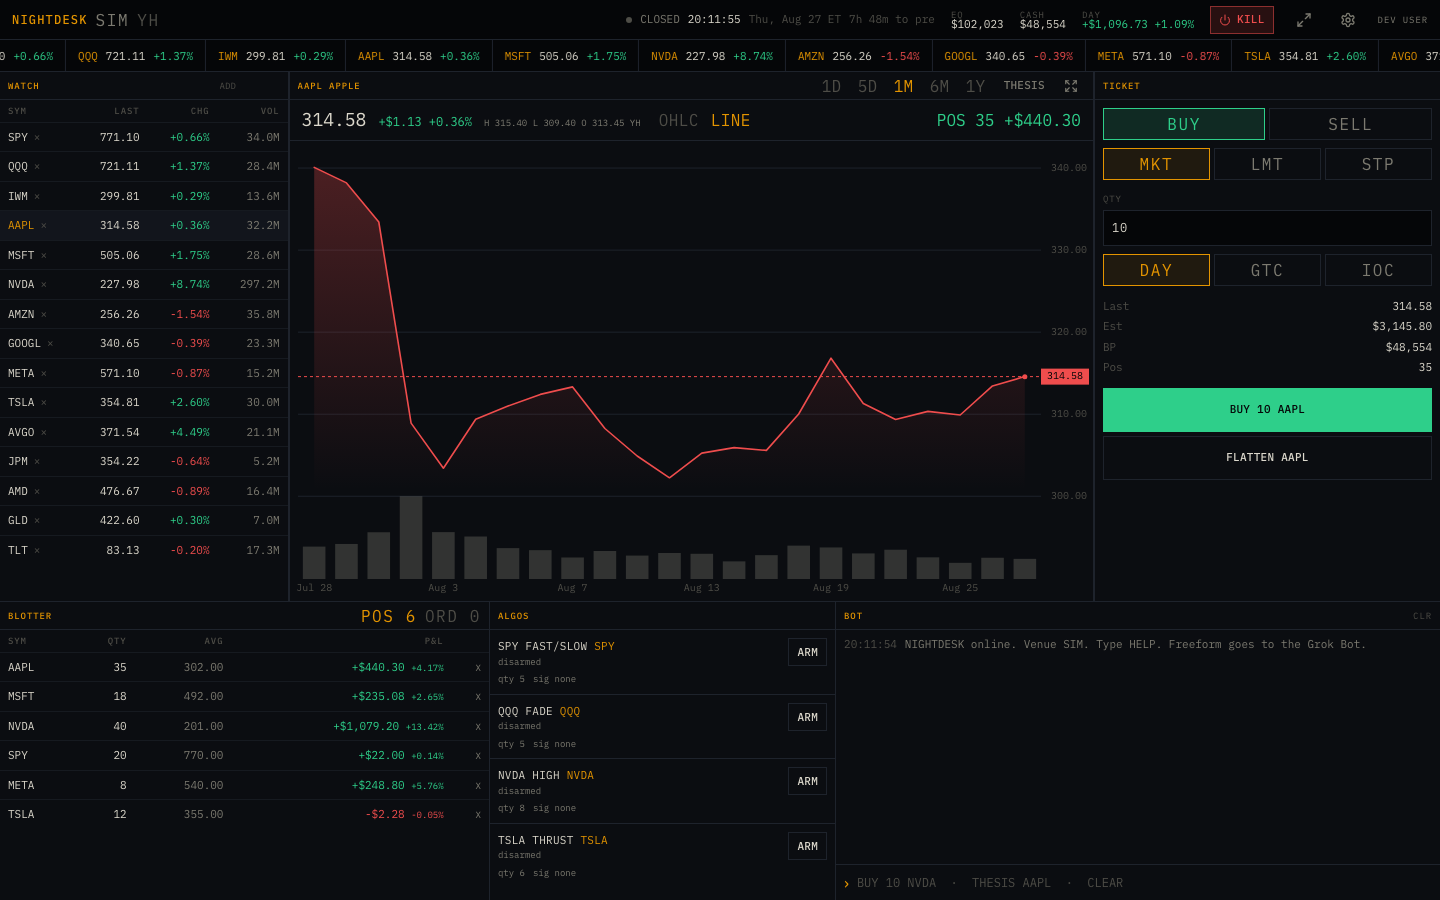
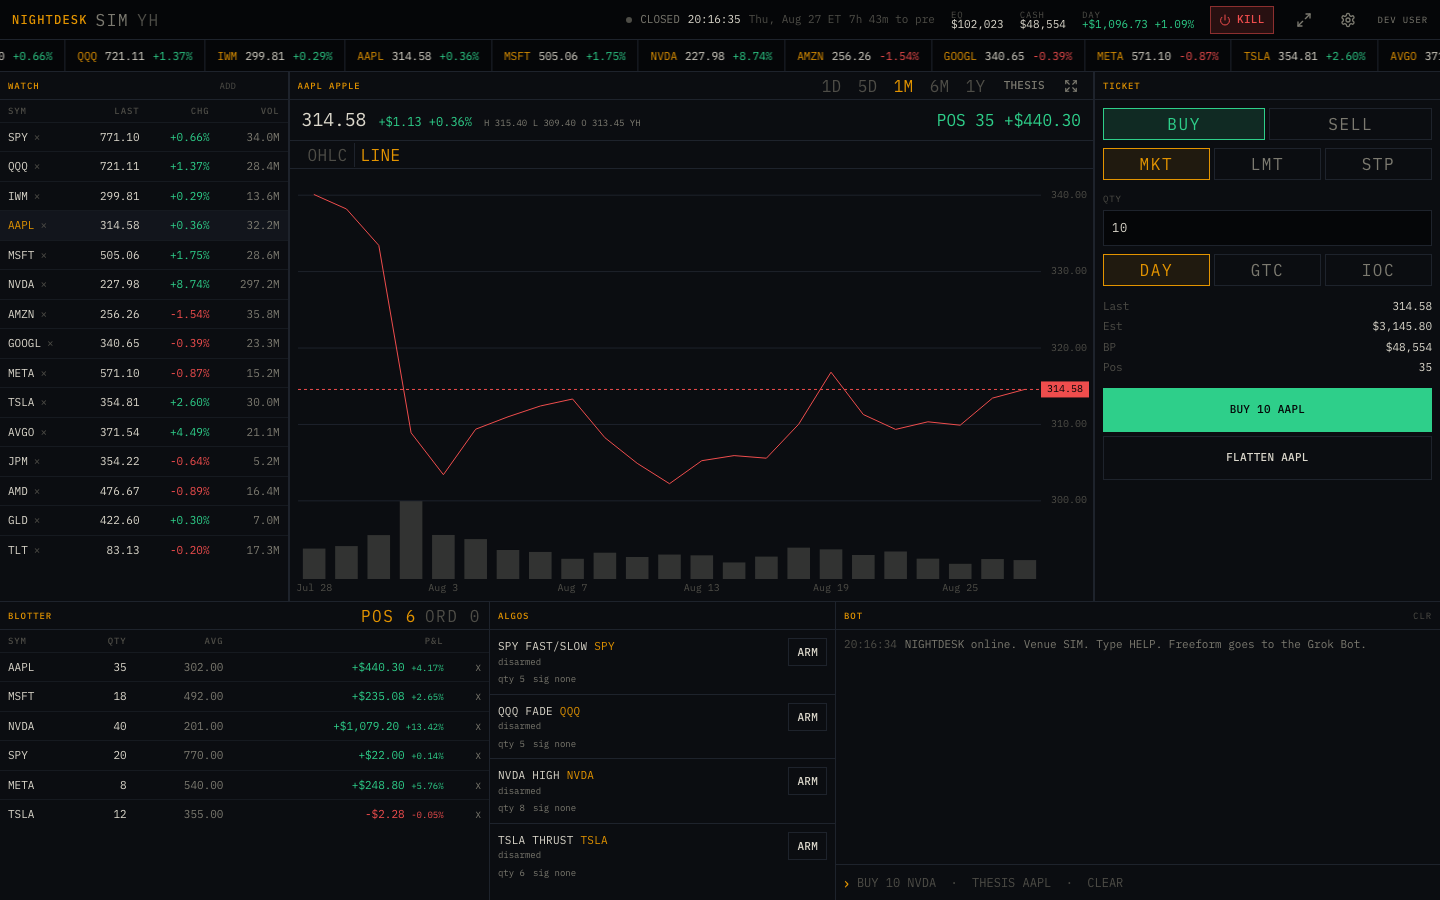
Glue the chart-mode toggle to the plot and thin the line.
Atelier lock: one quiet OHLC/LINE pair immediately above the plot,
not in the desk header. Line is a thin close stroke — no area fill,
no endpoint dot.

diff --git a/src/components/terminal/candle-chart.tsx b/src/components/terminal/candle-chart.tsx
@@ -104,8 +104,15 @@ export function CandleChart() {
             {barsSource === "alpaca" ? "  IEX" : barsSource === "yahoo" ? "  YH" : ""}
           </span>
         ) : null}
-        <div className="flex shrink-0 items-center self-center" role="group" aria-label="Chart mode">
-          {MODES.map((m) => (
+        {pos ? (
+          <span className={cn("ml-auto font-mono text-micro tabular-nums", signClass(pos.unrealizedPl))}>
+            POS {pos.qty}  {signedMoney(pos.unrealizedPl)}
+          </span>
+        ) : null}
+      </div>
+      <div className="flex h-7 shrink-0 items-center border-b border-border px-3">
+        <div role="group" aria-label="Chart mode" className="flex items-center">
+          {MODES.map((m, i) => (
             <button
               key={m.id}
               type="button"
@@ -113,6 +120,7 @@ export function CandleChart() {
               aria-pressed={chartMode === m.id}
               className={cn(
                 "h-6 px-1.5 font-mono text-micro tracking-wide",
+                i > 0 && "border-l border-border",
                 chartMode === m.id ? "text-accent" : "text-subtle hover:text-fg",
               )}
             >
@@ -120,11 +128,6 @@ export function CandleChart() {
             </button>
           ))}
         </div>
-        {pos ? (
-          <span className={cn("ml-auto font-mono text-micro tabular-nums", signClass(pos.unrealizedPl))}>
-            POS {pos.qty}  {signedMoney(pos.unrealizedPl)}
-          </span>
-        ) : null}
       </div>
       <div className="relative min-h-0 flex-1">
         {loading && bars.length === 0 ? (
@@ -212,11 +215,6 @@ function ChartSvg({
         ? endC >= firstC
         : true;
     const linePath = pathThrough(cs);
-    const lastI = series.length - 1;
-    const areaPath =
-      series.length > 1 && linePath
-        ? `${linePath} L${xAt(lastI).toFixed(1)} ${(padT + plotH).toFixed(1)} L${xAt(0).toFixed(1)} ${(padT + plotH).toFixed(1)} Z`
-        : "";
     return {
       w,
       h,
@@ -235,8 +233,6 @@ function ChartSvg({
       line,
       lineUp,
       linePath,
-      areaPath,
-      lastI,
       s20: line ? "" : pathThrough(sma(cs, 20)),
       s50: line ? "" : pathThrough(sma(cs, 50)),
       priceTicks: ticks(min, max, 5),
@@ -292,20 +288,6 @@ function ChartSvg({
           })}
           {layout.line ? (
             <>
-              <defs>
-                <linearGradient id="nd-line-fill" x1="0" y1="0" x2="0" y2="1">
-                  <stop
-                    offset="0%"
-                    stopColor={layout.lineUp ? "var(--color-up)" : "var(--color-down)"}
-                    stopOpacity="0.28"
-                  />
-                  <stop
-                    offset="100%"
-                    stopColor={layout.lineUp ? "var(--color-up)" : "var(--color-down)"}
-                    stopOpacity="0"
-                  />
-                </linearGradient>
-              </defs>
               {series.map((b, i) => {
                 const vh = (b.v / layout.maxV) * layout.volH;
                 return (
@@ -319,22 +301,13 @@ function ChartSvg({
                   />
                 );
               })}
-              {layout.areaPath ? <path d={layout.areaPath} fill="url(#nd-line-fill)" /> : null}
               <path
                 d={layout.linePath}
                 className={cn("fill-none", layout.lineUp ? "stroke-up" : "stroke-down")}
-                strokeWidth="1.6"
+                strokeWidth="1"
                 strokeLinejoin="round"
                 strokeLinecap="round"
               />
-              {series[layout.lastI] ? (
-                <circle
-                  cx={layout.xAt(layout.lastI)}
-                  cy={layout.yAt(series[layout.lastI]!.c)}
-                  r="2.5"
-                  className={layout.lineUp ? "fill-up" : "fill-down"}
-                />
-              ) : null}
             </>
           ) : (
             <>
